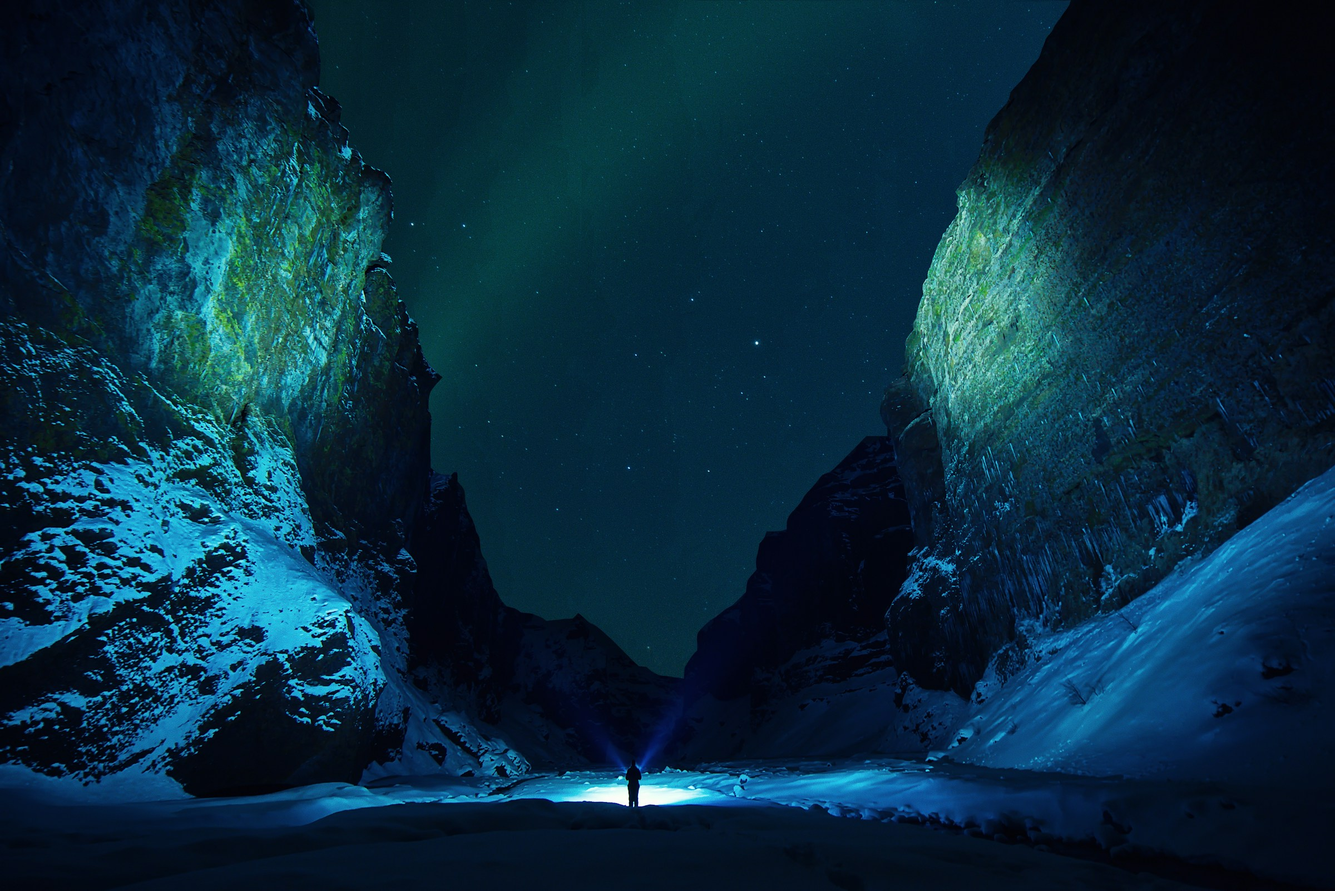
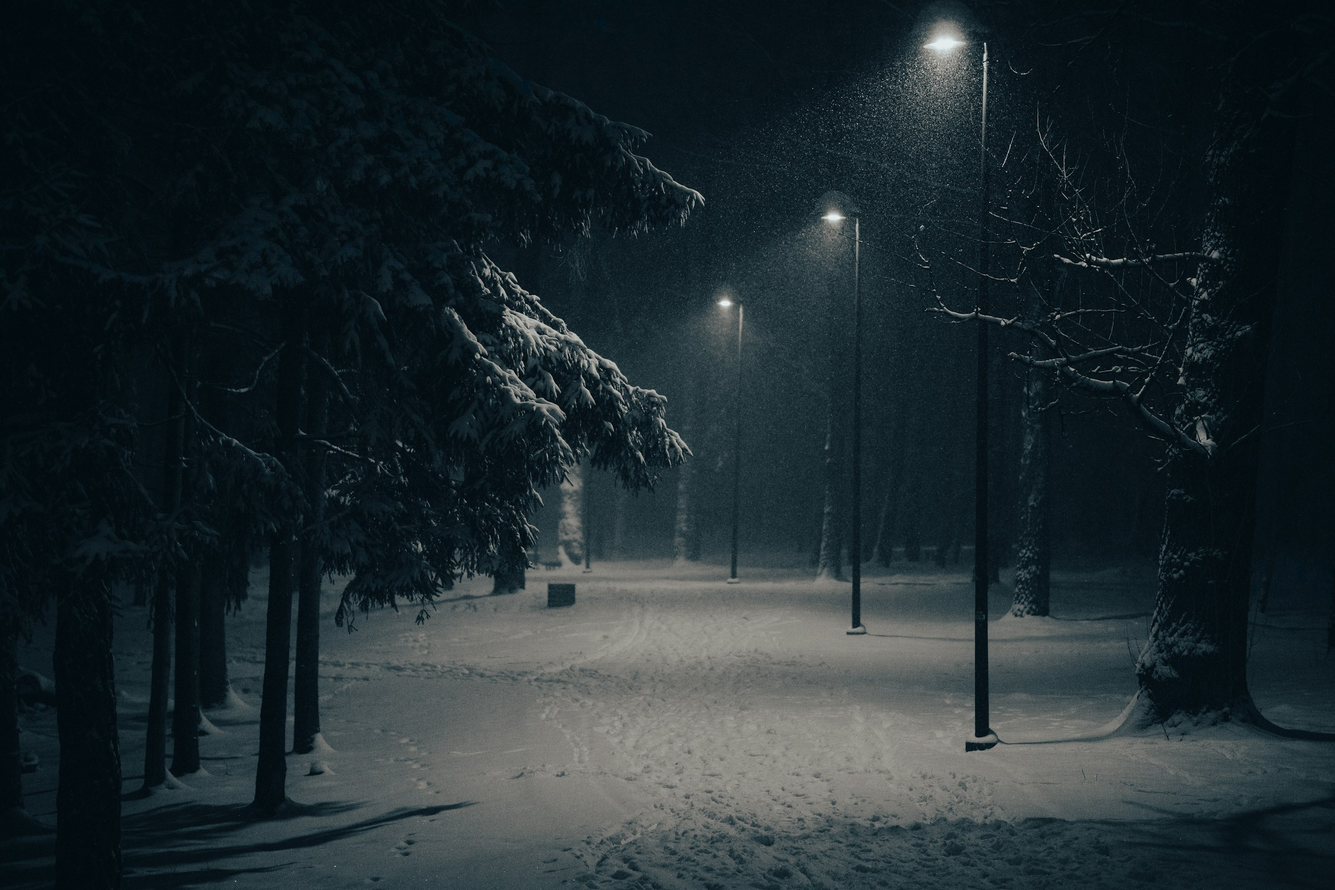
Completed the doc

diff --git a/src/components/dock.scss b/src/components/dock.scss
@@ -1,0 +1,71 @@
+.dock {
+  display: flex;
+  gap: 0.5rem;
+  position: absolute;
+  bottom: 1rem;
+  left: 50%;
+  transform: translate(-50%);
+  background-color: #514f4f70;
+  padding-inline: 1rem;
+  padding-block: 0.3rem;
+  border-radius: 0.5rem;
+
+  .icon {
+    padding: 0.5rem;
+    border-radius: 0.5rem;
+    display: flex;
+    align-items: center;
+    justify-content: center;
+    aspect-ratio: 1/1;
+    transition: all 0.2s cubic-bezier(0.19, 1, 0.22, 1);
+
+    img {
+      height: 1.7rem;
+      width: 1.7rem;
+    }
+  }
+  .icon:hover {
+    transform: scale(1.25) translateY(-20%);
+  }
+  //get the front icon
+  .icon:hover + .icon,
+  .icon:has(+ .icon:hover) {
+    transform: scale(1.1) translateY(-10%);
+  }
+  .github {
+    background-color: black;
+  }
+  .note {
+    background: linear-gradient(
+      to bottom,
+      rgb(255, 179, 87),
+      rgb(255, 152, 28)
+    );
+  }
+  .pdf {
+    background: linear-gradient(to bottom, rgb(248, 54, 99), rgb(187, 25, 63));
+  }
+  .calendar {
+    background: linear-gradient(
+      to bottom,
+      rgb(255, 235, 104),
+      rgb(167, 155, 29)
+    );
+  }
+  .spotify {
+    background: linear-gradient(to bottom, rgb(107, 230, 82), rgb(26, 88, 7));
+  }
+  .mail {
+    background: linear-gradient(to bottom, rgb(58, 152, 252), rgb(24, 46, 192));
+  }
+  .link {
+    background: linear-gradient(
+      to bottom,
+      rgb(214, 75, 252),
+      rgb(137, 11, 127)
+    );
+  }
+  .cli {
+    background: linear-gradient(to bottom, rgb(6, 14, 23), rgb(0, 0, 0));
+  }
+}

diff --git a/src/components/Dock.jsx b/src/components/Dock.jsx
@@ -1,7 +1,35 @@
 import React from "react";
+import "./dock.scss";
 
 const Dock = () => {
-  return <div>dock</div>;
+  return (
+    <footer className="dock">
+      <div className="icon github">
+        <img src="/doc-icons/github.svg" alt="" />
+      </div>
+      <div className="icon note">
+        <img src="/doc-icons/note.svg" alt="" />
+      </div>
+      <div className="icon pdf">
+        <img src="/doc-icons/pdf.svg" alt="" />
+      </div>
+      <div className="icon calendar">
+        <img src="/doc-icons/calendar.svg" alt="" />
+      </div>
+      <div className="icon spotify">
+        <img src="/doc-icons/spotify.svg" alt="" />
+      </div>
+      <div className="icon mail">
+        <img src="/doc-icons/mail.svg" alt="" />
+      </div>
+      <div className="icon link">
+        <img src="/doc-icons/link.svg" alt="" />
+      </div>
+      <div className="icon cli">
+        <img src="/doc-icons/cli.svg" alt="" />
+      </div>
+    </footer>
+  );
 };
 
 export default Dock;

diff --git a/index.html b/index.html
@@ -2,7 +2,7 @@
 <html lang="en">
   <head>
     <meta charset="UTF-8" />
-    <link rel="icon" type="image/svg+xml" href="/favicon.svg" />
+    <link rel="icon" type="image/svg+xml" href="/favicon.png" />
     <meta name="viewport" content="width=device-width, initial-scale=1.0" />
     <title>mac-os</title>
   </head>

diff --git a/src/App.jsx b/src/App.jsx
@@ -1,7 +1,6 @@
 import React, { useState } from "react";
 import "./app.scss";
 import Dock from "./components/Dock";
-
 const App = () => {
   return (
     <>

diff --git a/src/app.scss b/src/app.scss
@@ -20,3 +20,4 @@ main {
 body {
   background-color: black;
 }
+
